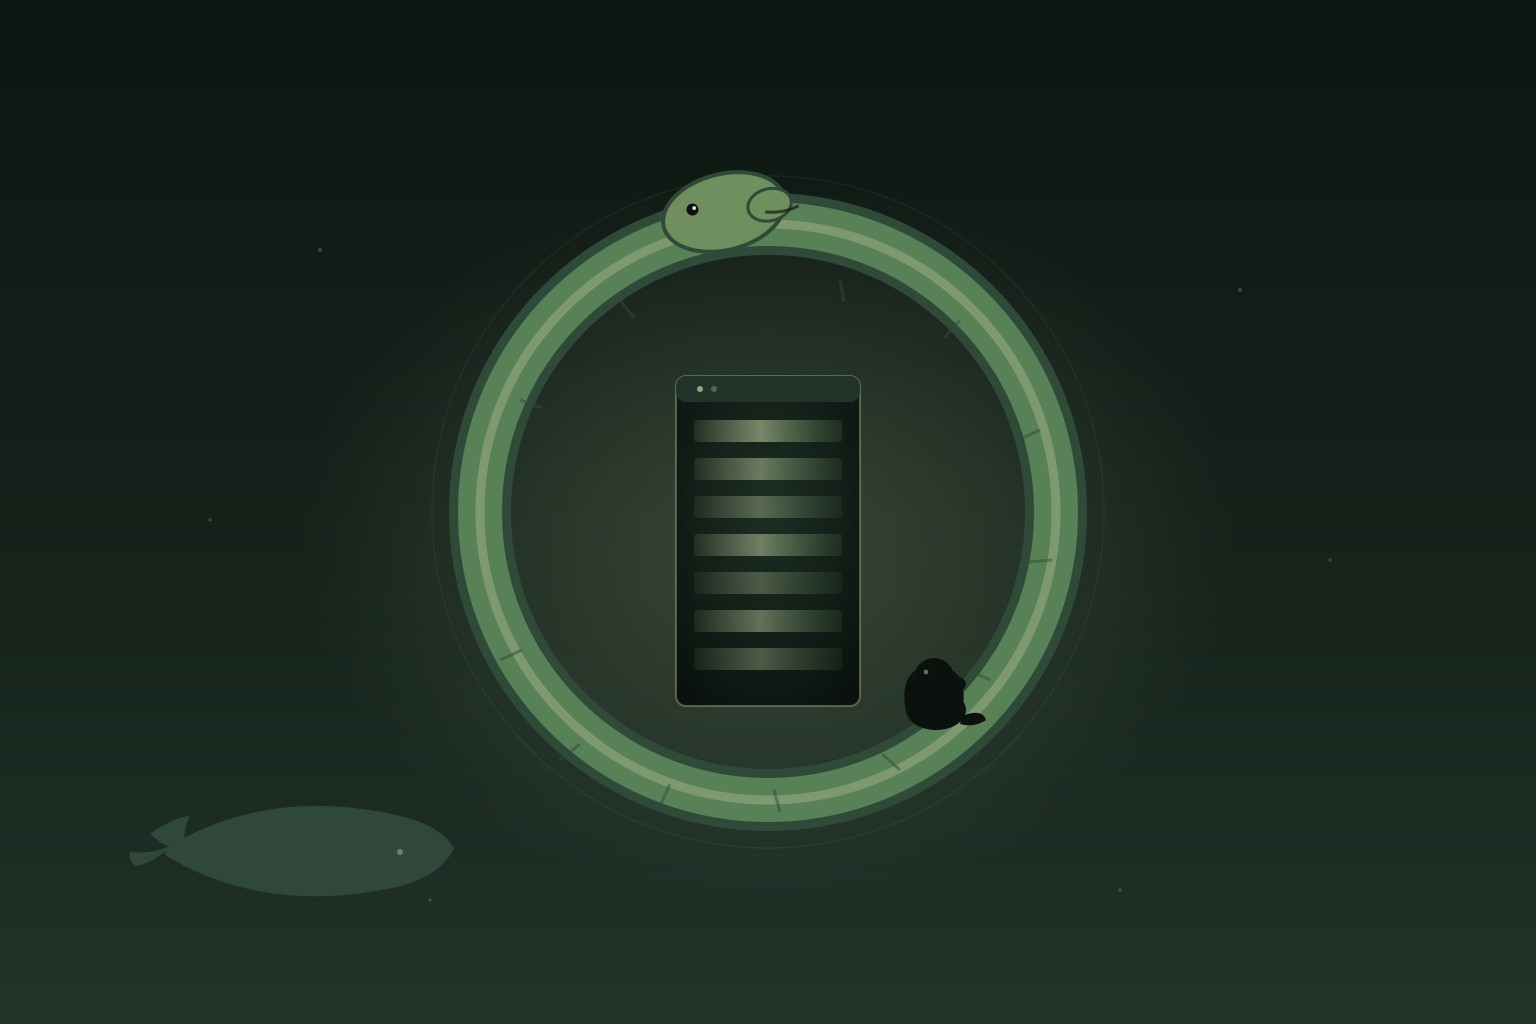
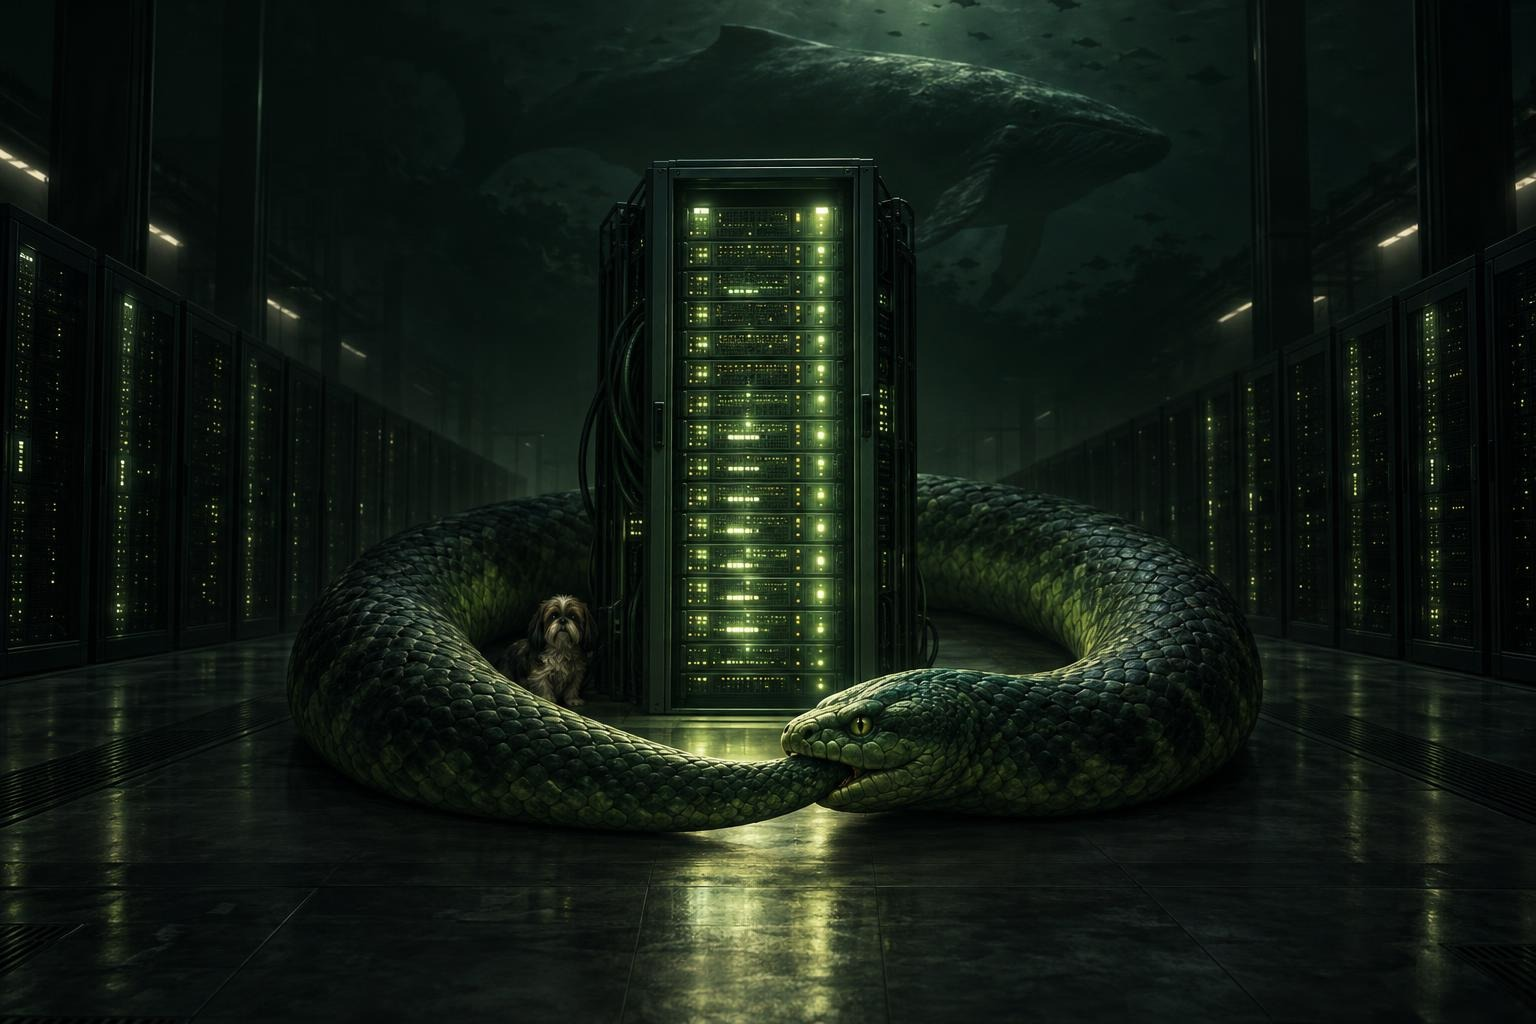
fix: update blog image model and regenerate art

diff --git a/scripts/generate-blog-image.js b/scripts/generate-blog-image.js
@@ -6,7 +6,7 @@ import OpenAI from "openai";
 import "dotenv/config";
 
 const ROOT_DIR = process.cwd();
-const DEFAULT_MODEL = "gpt-image-1";
+const DEFAULT_MODEL = "gpt-image-2.5-sunburst";
 const DEFAULT_OUTPUT_DIR = path.join(ROOT_DIR, "src/assets/images");
 const DEFAULT_GPT_IMAGE_SIZE = "1536x1024";
 const DEFAULT_DALLE_SIZE = "1792x1024";
@@ -168,7 +168,10 @@ function extractScalar(frontmatter, key) {
 }
 
 function extractNestedScalar(frontmatter, parentKey, childKey) {
-  const regex = new RegExp(`${parentKey}:\\s*\\n(?:\\s+.*\\n)*?\\s+${childKey}:\\s*(.+)$`, "m");
+  const regex = new RegExp(
+    `${parentKey}:\\s*\\n(?:\\s+.*\\n)*?\\s+${childKey}:\\s*(.+)$`,
+    "m",
+  );
   const match = frontmatter.match(regex);
   if (!match) return "";
   return match[1].trim().replace(/^["']|["']$/g, "");
@@ -262,13 +265,15 @@ async function ensureDir(filePath) {
 async function downloadUrl(url) {
   const response = await fetch(url);
   if (!response.ok) {
-    throw new Error(`Failed to download generated image: ${response.status} ${response.statusText}`);
+    throw new Error(
+      `Failed to download generated image: ${response.status} ${response.statusText}`,
+    );
   }
   return Buffer.from(await response.arrayBuffer());
 }
 
 async function generateImage(client, prompt, model) {
-  const isGptImage = model === "gpt-image-1";
+  const isGptImage = model.startsWith("gpt-image");
 
   const response = await client.images.generate({
     prompt,
@@ -320,7 +325,8 @@ async function main() {
   const frontmatter = parseFrontmatterBlock(markdown);
   const body = parseBody(markdown);
 
-  const title = extractScalar(frontmatter, "title") || path.basename(args.postPath, ".md");
+  const title =
+    extractScalar(frontmatter, "title") || path.basename(args.postPath, ".md");
   const description = extractScalar(frontmatter, "description");
   const author = extractScalar(frontmatter, "author");
   const pubDate = extractScalar(frontmatter, "pubDate");
@@ -359,11 +365,17 @@ async function main() {
 
   const apiKey = process.env.OPENAI_API_KEY;
   if (!apiKey) {
-    throw new Error("OPENAI_API_KEY is not set. Add it to your environment before generating blog images.");
+    throw new Error(
+      "OPENAI_API_KEY is not set. Add it to your environment before generating blog images.",
+    );
   }
 
   const client = new OpenAI({ apiKey });
-  const { buffer, revisedPrompt } = await generateImage(client, prompt, args.model);
+  const { buffer, revisedPrompt } = await generateImage(
+    client,
+    prompt,
+    args.model,
+  );
 
   await ensureDir(outputPath);
   await fs.writeFile(outputPath, buffer);

diff --git a/src/content/posts/2026-10-17-spore-theory.md b/src/content/posts/2026-10-17-spore-theory.md
@@ -5,7 +5,7 @@ description: "A novel thought about the billionaire class as biology's launch ve
 author: "Andrew Riefenstahl"
 image:
   url: "@/assets/images/spore-theory-og.jpg"
-  alt: "A dark forest-green illustration of a small planet at dusk, a seed pod at its crown releasing spores into space, and a lone figure sitting with a dog under a warm porch light."
+  alt: "A dark forest-green illustration of a small planet at dusk, a seed pod at its crown releasing glowing spores like rocket trails into space, and a lone figure sitting with a dog on a porch under a warm light."
 tags: ["stream of thought", "capitalism", "degrowth", "biology", "panspermia"]
 ---
 

diff --git a/src/content/posts/2026-10-30-b2b-cannibalism.md b/src/content/posts/2026-10-30-b2b-cannibalism.md
@@ -5,7 +5,7 @@ description: "Cheap tokens, expensive thoughts, and the business model eating it
 author: "Andrew Riefenstahl"
 image:
   url: "@/assets/images/b2b-cannibalism-og.jpg"
-  alt: "A dark forest-green illustration of a snake curled in a ring around a glowing server rack, with a whale silhouette in the background and a tiny dog sitting beside the rack."
+  alt: "A dark forest-green illustration of a great snake coiled in a ring around a glowing server rack, a whale silhouette above, and a tiny dog tucked between the coils."
 tags: ["AI", "capitalism", "DeepSeek", "open source", "inference", "labor"]
 ---
 
